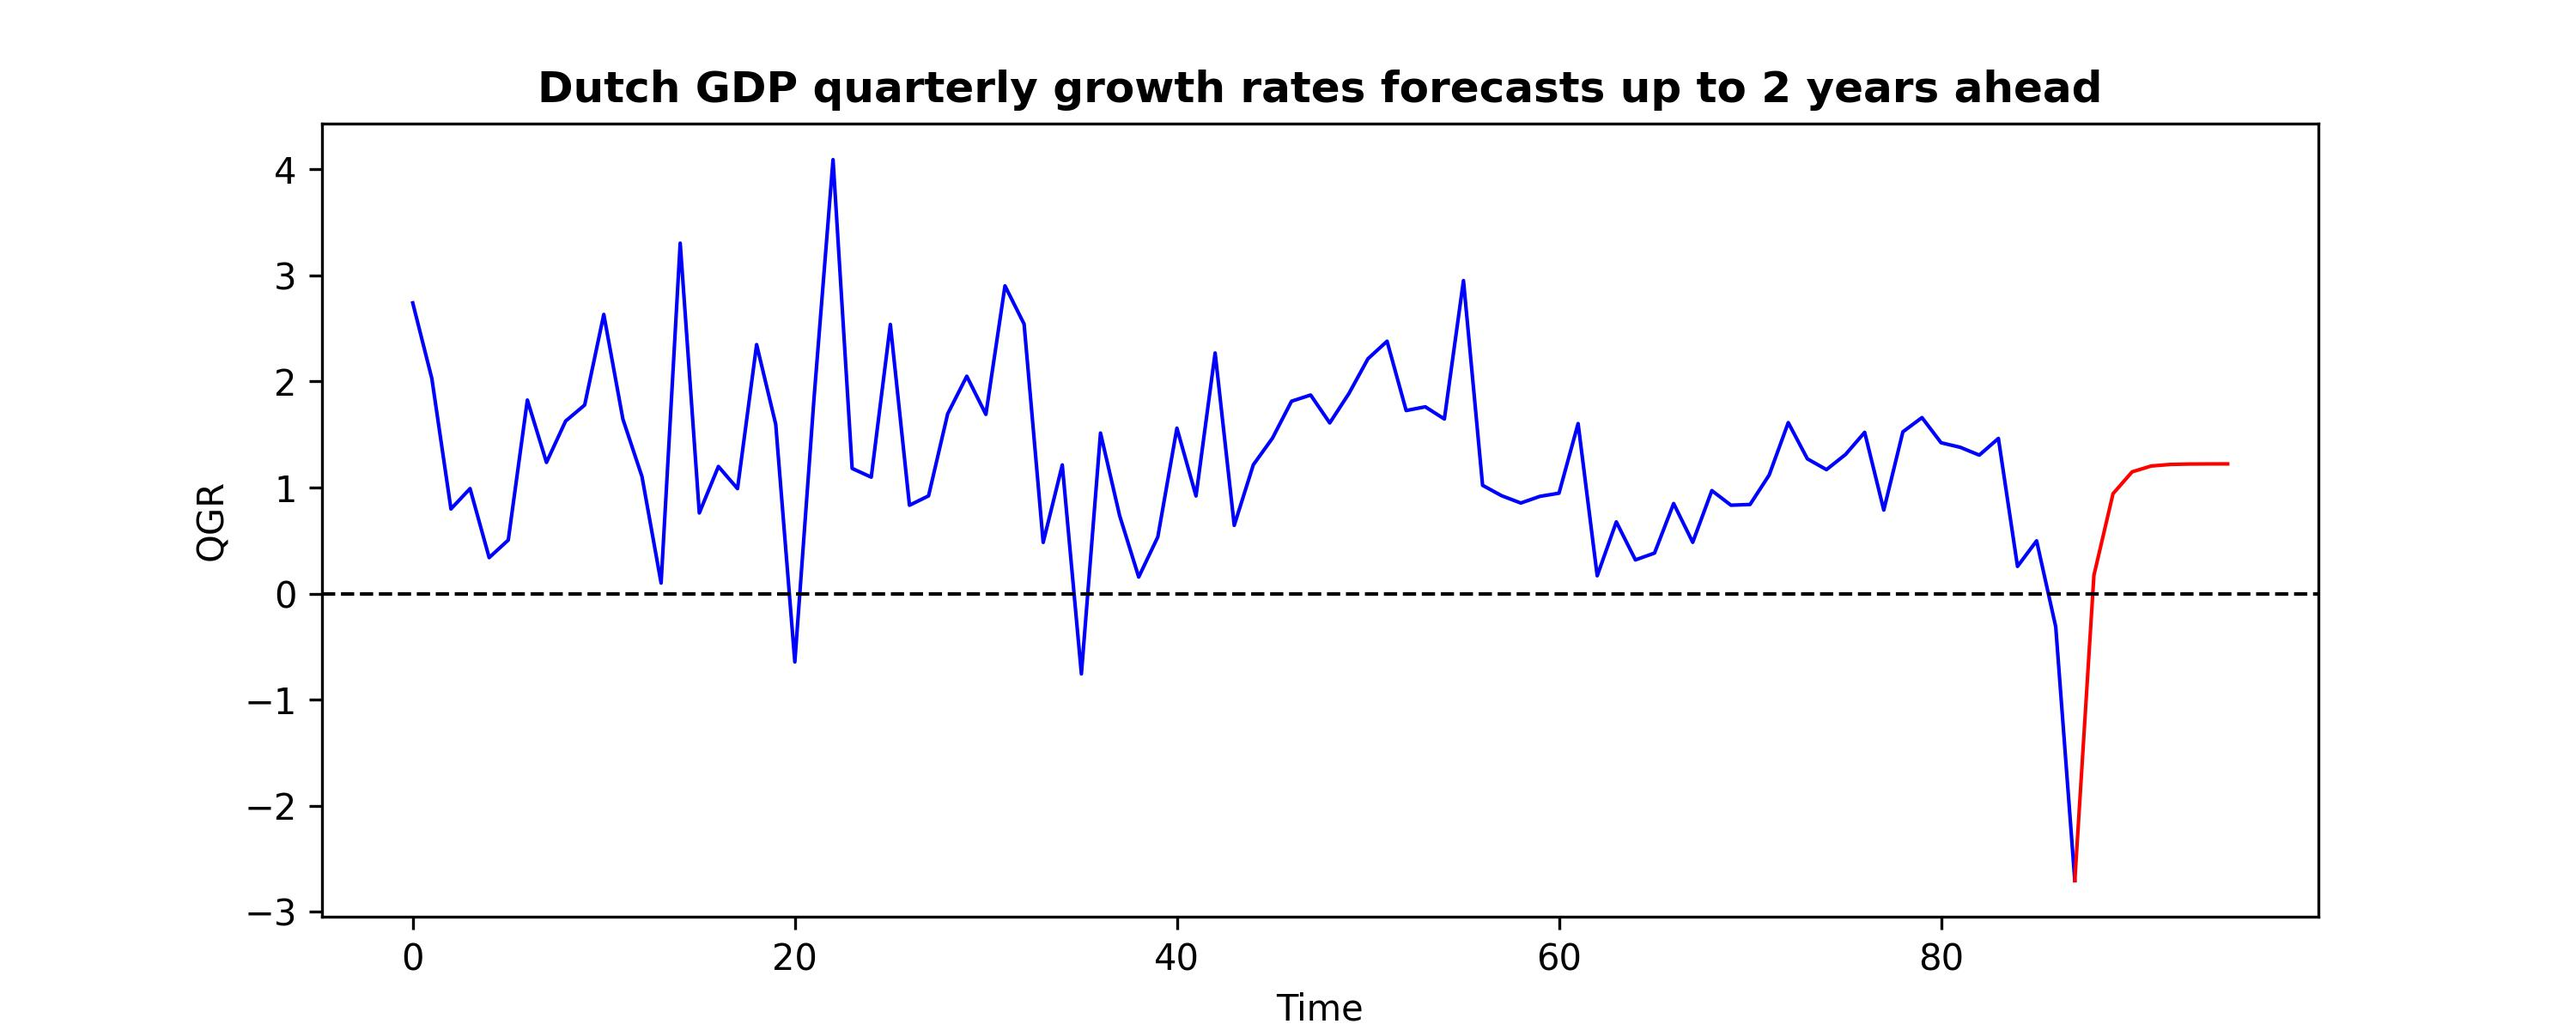
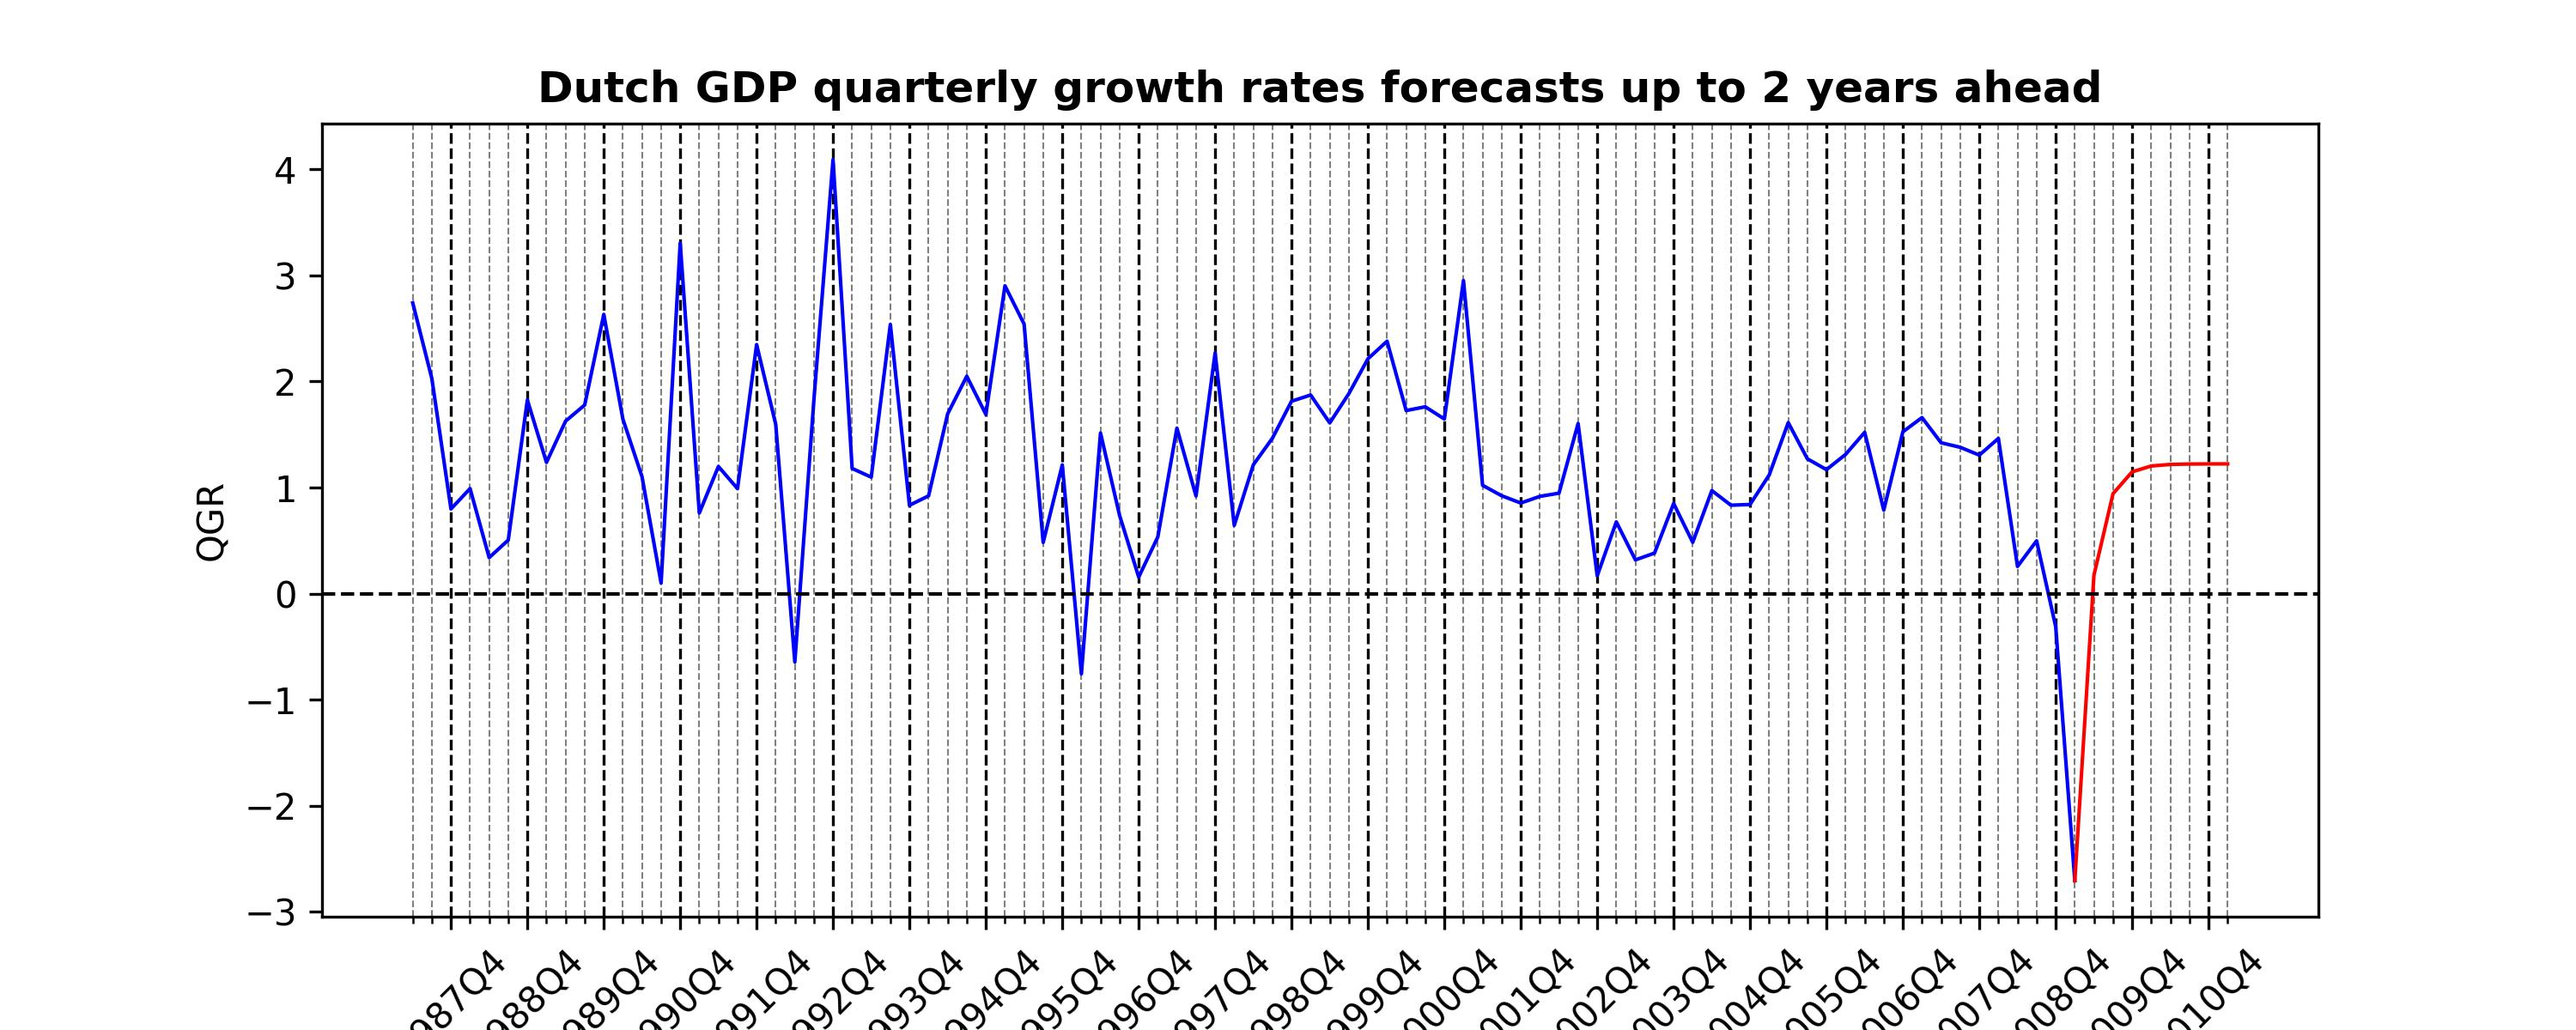
Add codes for PartI Question4

diff --git a/2/TSDE_A2_Group19.py b/2/TSDE_A2_Group19.py
@@ -1,6 +1,8 @@
 import numpy as np
 import pandas as pd
 import matplotlib.pyplot as plt
+from scipy.stats import norm
+import math
 
 def read_csv(filename) -> str:
     output = pd.read_csv(filename, header = 0)
@@ -131,6 +133,7 @@ def getBIC(t, k, residuals):
 
 max_p = 4
 estimate_phi_list = []
+estimate_residuals_list = []
 bic_list = []
 
 # estimate with a maximum p up to 4 lags
@@ -143,6 +146,7 @@ for iterateP in range(1, max_p+1):
     
     this_bic = getBIC(lengthOfSeries, k, hat_residuals.squeeze())
     estimate_phi_list.append(estimate_phi)
+    estimate_residuals_list.append(hat_residuals)
     bic_list.append(float(this_bic))
     
 min_bic = round(np.min(bic_list),3)
@@ -154,7 +158,26 @@ print(f'The final estimate of p is {final_p} with the lowest value of the inform
 
 # produce forecasts up to 2 years ahead
 final_phi = estimate_phi_list[final_p - 1]
+print(f'final_phi = {final_phi.loc[1]}')
+final_residuals = estimate_residuals_list[final_p - 1]
 h_step_ahead = 8
+
+def getQuarterlyName(input_x_list):
+    result = ''
+    lastName = input_x_list[-1]
+    lastYear = lastName[0:4]
+    lastQuarter = lastName[-1]
+    
+    if int(lastQuarter) == 4:
+        thisYear = int(lastYear) + 1
+        thisQuarter = 1
+        result = f'{thisYear}Q{thisQuarter}'
+    else:
+        thisYear = lastYear
+        thisQuarter = int(lastQuarter) + 1
+        result = f'{thisYear}Q{thisQuarter}'
+        
+    return result
 
 for step in range(1,h_step_ahead+1):
     row = []
@@ -163,21 +186,72 @@ for step in range(1,h_step_ahead+1):
     for t in range(0, final_p):
         row.append(float(quarterly_growth_rates[len(quarterly_growth_rates) - t - 1]))
     
-    forecast_result = (pd.DataFrame([row]) @ final_phi)
+    forecast_result = pd.DataFrame([row]) @ final_phi
     quarterly_growth_rates = pd.concat([quarterly_growth_rates, pd.Series([forecast_result.iloc[0, 0]])], ignore_index=True)
+    
+    forecast_result_name = getQuarterlyName(list(quarterly_name))
+    quarterly_name = pd.concat([quarterly_name, pd.Series([forecast_result_name])], ignore_index=True)       
+
+fourth_quarter_name = [quarter for quarter in quarterly_name if 'Q4' in quarter]
 
 graphTitle = 'Dutch GDP quarterly growth rates forecasts up to 2 years ahead'
 fileName = '3_forecasts'
 
 plt.figure(figsize=(10,4))    
-plt.plot(range(len(quarterly_growth_rates)-8), quarterly_growth_rates[:-8], linewidth = 1, color = 'blue')
-plt.plot(range(len(quarterly_growth_rates)-9,len(quarterly_growth_rates)),quarterly_growth_rates[-9:], linewidth = 1, color = 'red')
+plt.plot(quarterly_name[:-8], quarterly_growth_rates[:-8], linewidth = 1, color = 'blue')
+plt.plot(quarterly_name[-9:],quarterly_growth_rates[-9:], linewidth = 1, color = 'red')
 plt.axhline(0, color='black', linestyle='--', linewidth=1)
 plt.title(graphTitle, fontweight='bold')
-# plt.xticks(quarterly_name, minor=True)
-# plt.xticks(fourth_quarter_name, minor=False, rotation=45)
-# plt.grid(True, axis='x', linestyle='--', linewidth=0.5, which='minor', color='grey')
-# plt.grid(True, axis='x', linestyle='--', linewidth=0.8, which='major', color='black')
+plt.xticks(quarterly_name, minor=True)
+plt.xticks(fourth_quarter_name, minor=False, rotation=45)
+plt.grid(True, axis='x', linestyle='--', linewidth=0.5, which='minor', color='grey')
+plt.grid(True, axis='x', linestyle='--', linewidth=0.8, which='major', color='black')
+plt.xlabel('Time')
+plt.ylabel('QGR')
+plt.savefig(f'../2/figures/{fileName}.jpeg', dpi=300)
+plt.show()
+
+# Question 4
+
+# estimate the variance of residuals
+res_variance = np.var(final_residuals)
+
+# compute the variance of error terms
+sumOfPhi = 0
+for j in range(0, h_step_ahead):
+    sumOfPhi += final_phi.loc[1] ** (2*j)
+
+error_h_step_ahead_error_variance = res_variance * sumOfPhi
+print(error_h_step_ahead_error_variance,type(error_h_step_ahead_error_variance))
+
+# compute the confidence interval
+alpha = 0.05
+CI_upper_list = []
+CI_lower_list = []
+CI_upper_list.append(list(quarterly_growth_rates)[-9])
+CI_lower_list.append(list(quarterly_growth_rates)[-9])
+
+for step in range(1,h_step_ahead+1):
+    forecastValue = list(quarterly_growth_rates)[-(h_step_ahead+1-step)]
+    confidenceInterval_upperBound = forecastValue + norm.ppf(1 - alpha/2) * math.sqrt(error_h_step_ahead_error_variance)
+    CI_upper_list.append(confidenceInterval_upperBound)
+    confidenceInterval_lowerBound = forecastValue - norm.ppf(1 - alpha/2) * math.sqrt(error_h_step_ahead_error_variance)
+    CI_lower_list.append(confidenceInterval_lowerBound)
+    
+graphTitle = 'Dutch GDP quarterly growth rates forecasts up to 2 years ahead'
+fileName = '4_forecasts_CI'
+
+plt.figure(figsize=(10,4))    
+plt.plot(quarterly_name[:-8], quarterly_growth_rates[:-8], linewidth = 1, color = 'blue')
+plt.plot(quarterly_name[-9:],quarterly_growth_rates[-9:], linewidth = 1, color = 'red')
+plt.plot(quarterly_name[-9:],CI_upper_list, linestyle = '--', linewidth = 1, color = 'red')
+plt.plot(quarterly_name[-9:],CI_lower_list, linestyle = '--', linewidth = 1, color = 'red')
+plt.axhline(0, color='black', linestyle='--', linewidth=1)
+plt.title(graphTitle, fontweight='bold')
+plt.xticks(quarterly_name, minor=True)
+plt.xticks(fourth_quarter_name, minor=False, rotation=45)
+plt.grid(True, axis='x', linestyle='--', linewidth=0.5, which='minor', color='grey')
+plt.grid(True, axis='x', linestyle='--', linewidth=0.8, which='major', color='black')
 plt.xlabel('Time')
 plt.ylabel('QGR')
 plt.savefig(f'../2/figures/{fileName}.jpeg', dpi=300)
